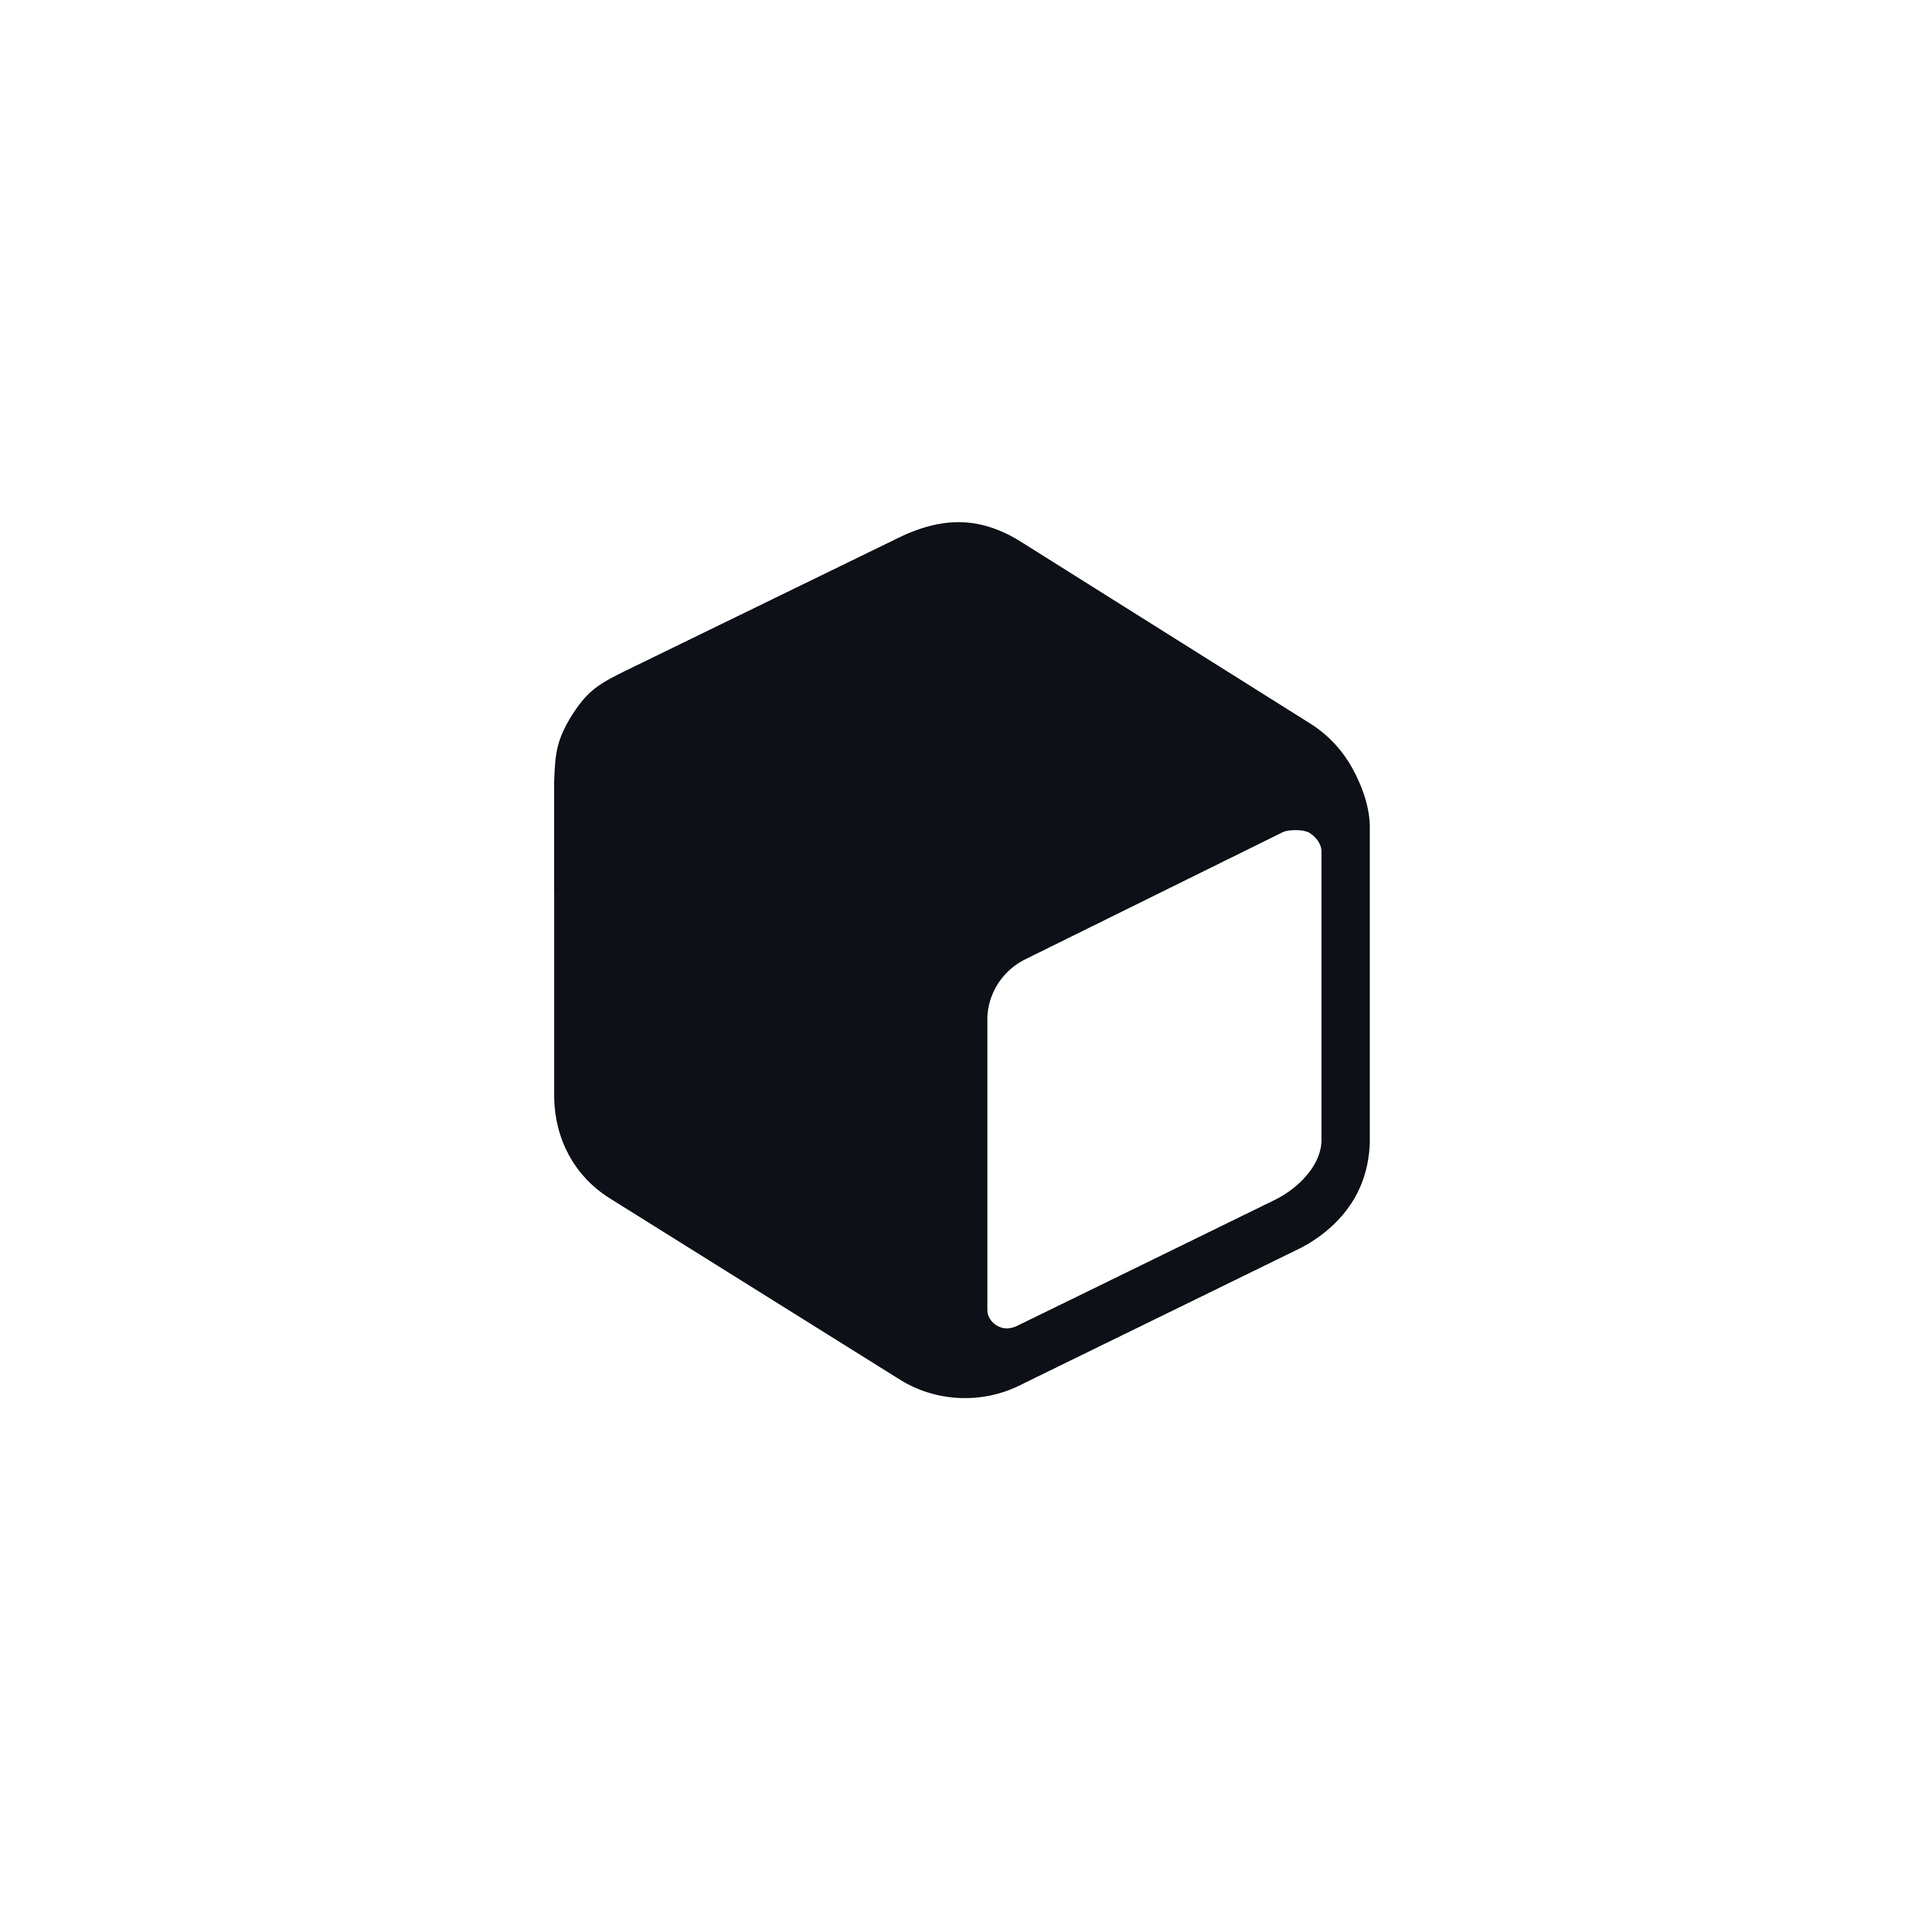
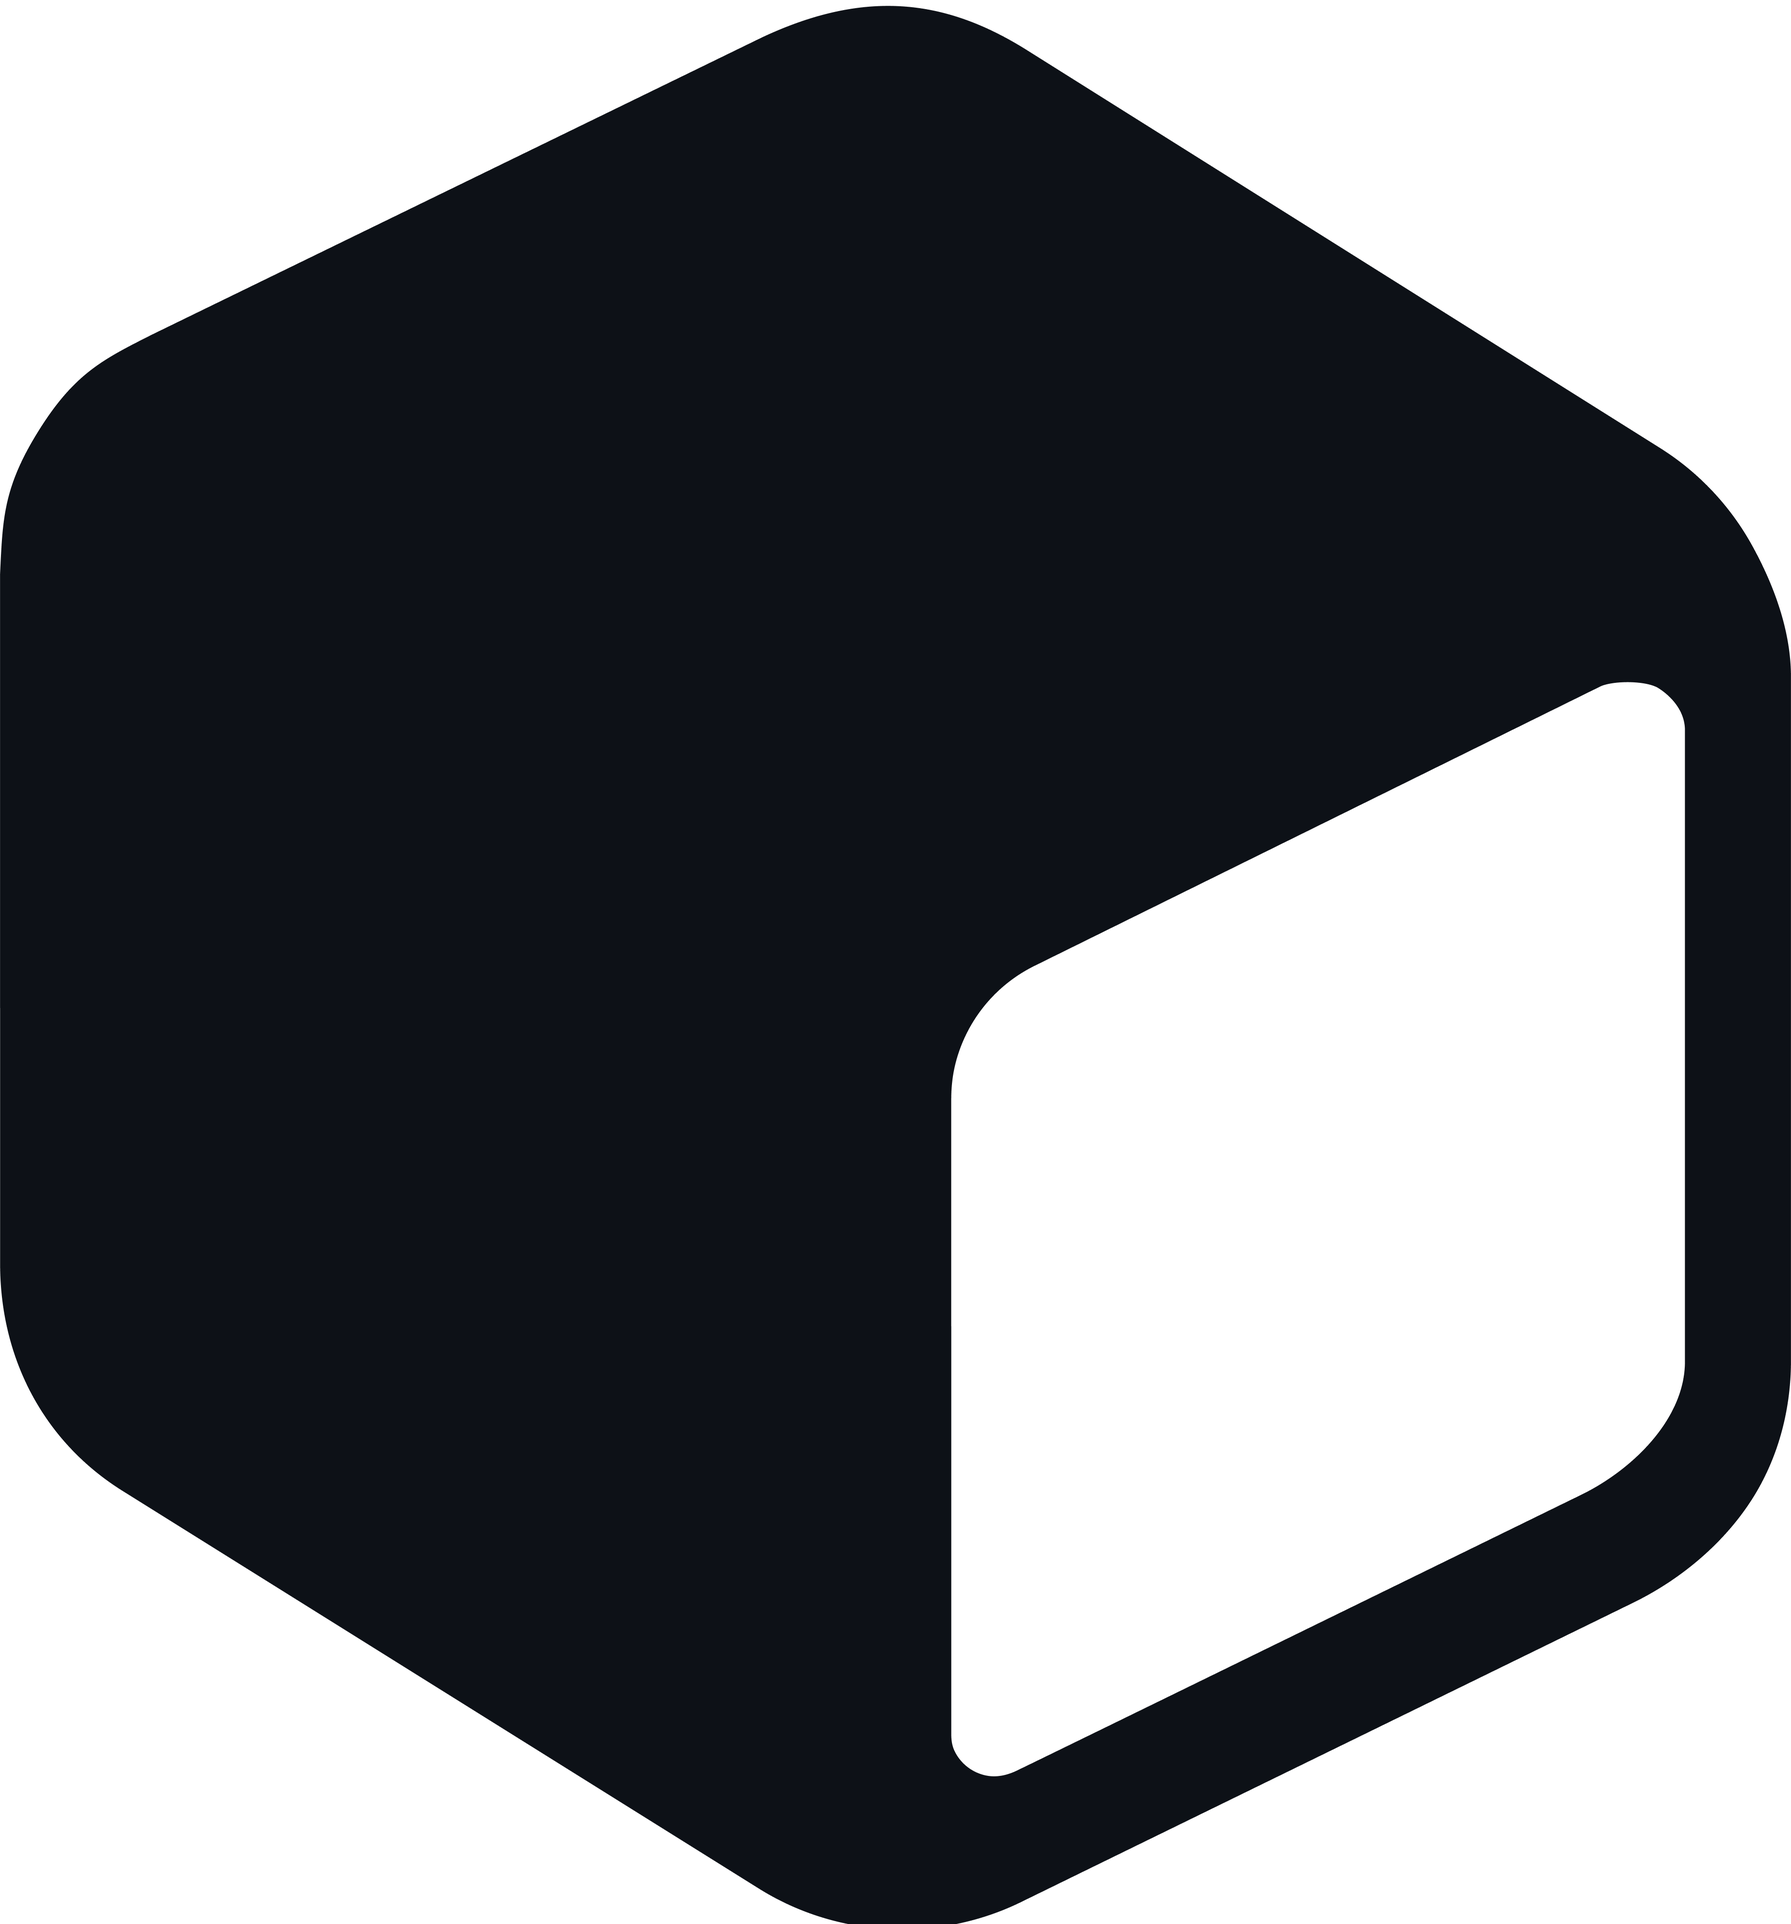
fix(files): remove branding margins
Removed unnecessary margins from all branding assets.

diff --git a/CONTRIBUTING.md b/CONTRIBUTING.md
@@ -10,7 +10,7 @@ The procedure of getting started with a repository on your local machine & submi
 
 # Contributing
 
-This project welcomes contributions and suggestions. Most contributions require you to agree to a Contributor License Agreement (_"the CLA"_) declaring that you have the right to, and actually do, grant us the rights to use your contribution. For details, check the `CLA.md` file by visiting https://github.com/jarsft/.github/blob/production/CLA.md.
+This project welcomes contributions and suggestions. Most contributions require you to agree to a Contributor License Agreement (_"the CLA"_) declaring that you have the right to, and actually do, grant us the rights to use your contribution. For details, check the `CLA.md` file by visiting https://github.com/jarsft/.github/blob/production/agreements/CLA.md.
 
 When you submit a pull-request, a CLA bot will automatically determine whether or not you need to agree to the CLA and decorate the PR appropriately (e.g., status check, comment). If available, follow the instructions provided by the bot. You will only need to do this once across all repositories using the Jarsoft CLA.
 
